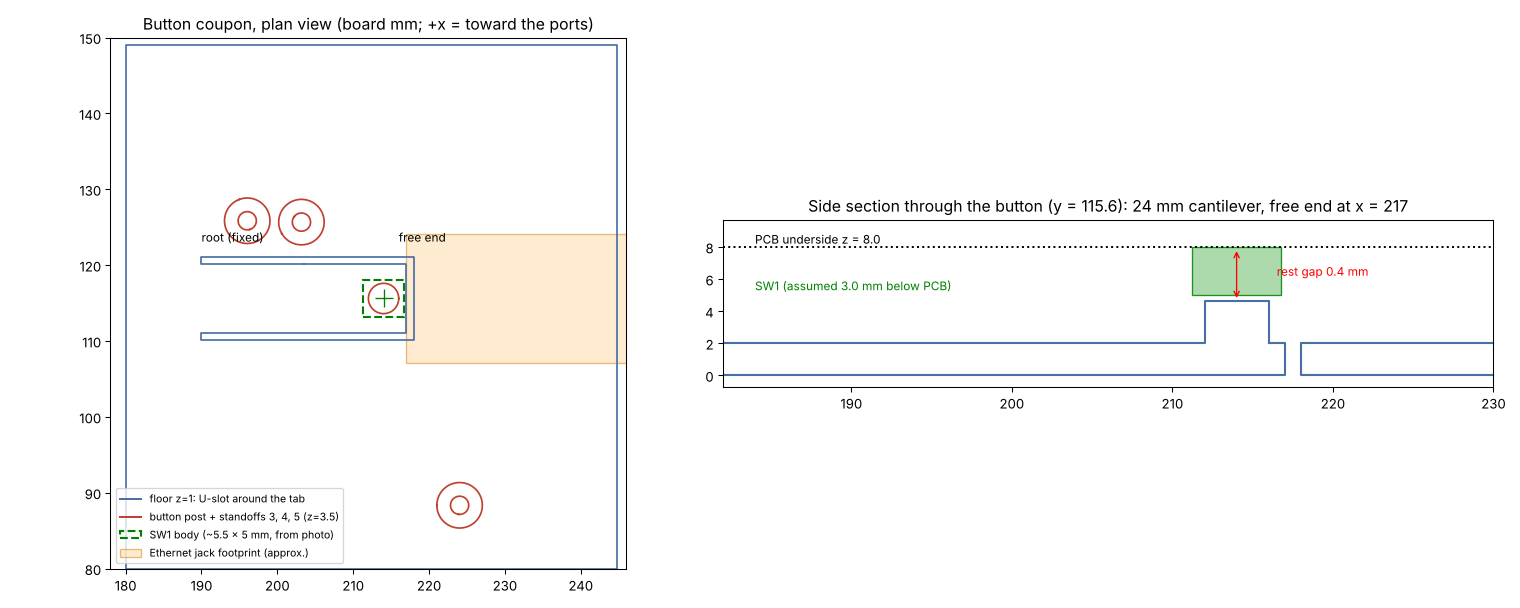
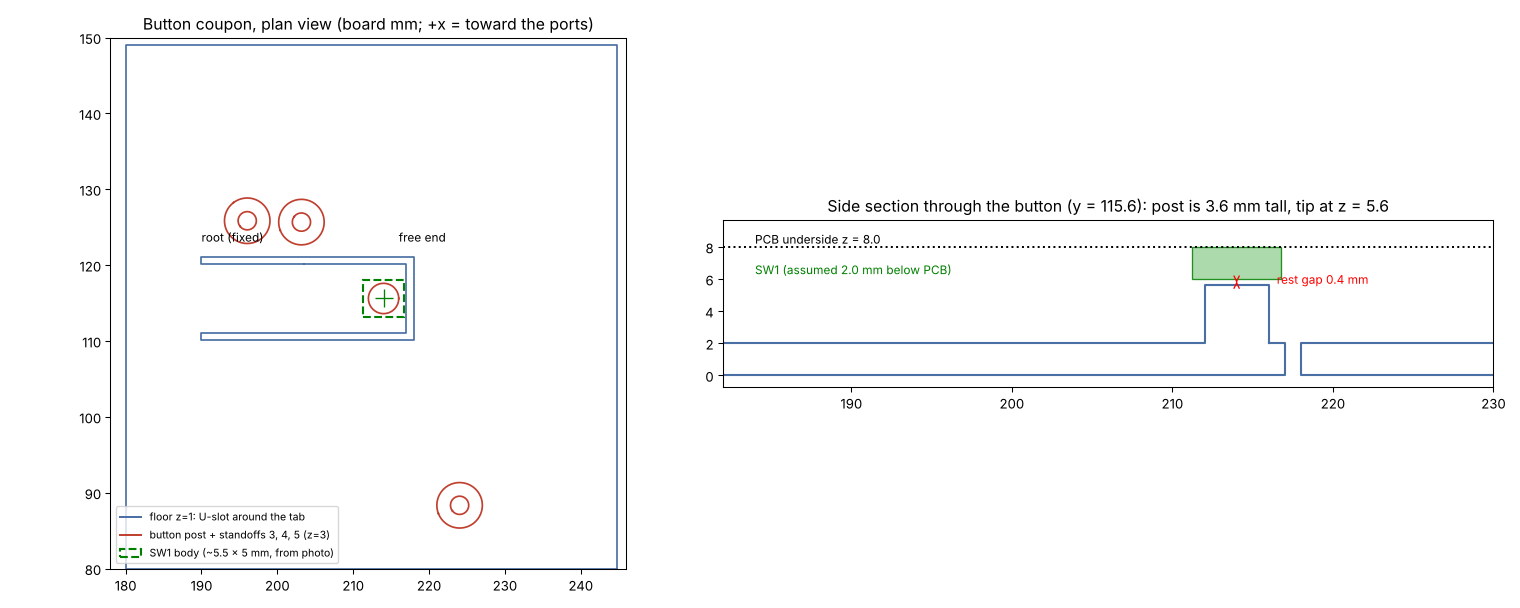
Make the button post 1 mm taller (assumed switch height 3.0 -> 2.0 mm below PCB)
Claude-Session: https://claude.ai/code/session_01ATfCQK4oZCKBebaqGdUJZt

diff --git a/make_case.py b/make_case.py
@@ -115,7 +115,7 @@ SWITCH = {
     "slot": 1.0,                    # gap cut around the tab
     "post_d": 4.0,                  # post diameter: bigger than the plunger so a ~1 mm
                                     # position error still hits it; the switch body is the stop
-    "sw_h": 3.0,                    # plunger tip height below the PCB underside (guess!)
+    "sw_h": 2.0,                    # plunger tip height below the PCB underside (guess; was 3.0, post made 1 mm taller)
     "gap": 0.4,                     # rest clearance post tip <-> plunger
 }
 
@@ -251,7 +251,7 @@ def main():
     ap.add_argument("--no-deco", action="store_true", help="plain case, no Art Deco styling")
     ap.add_argument("--no-button", action="store_true", help="omit the compliant power-button tab")
     ap.add_argument("--sw-height", type=float, default=None,
-                    help="height of the switch plunger tip below the PCB underside (mm) [3.0]")
+                    help="height of the switch plunger tip below the PCB underside (mm) [2.0]")
     ap.add_argument("--no-feet", action="store_true", help="omit the stick-on rubber foot recesses")
     ap.add_argument("--ghost", action="store_true", help="also write board_ghost.stl")
     ap.add_argument("--only", choices=["base", "lid", "plate", "chassis", "button"],
